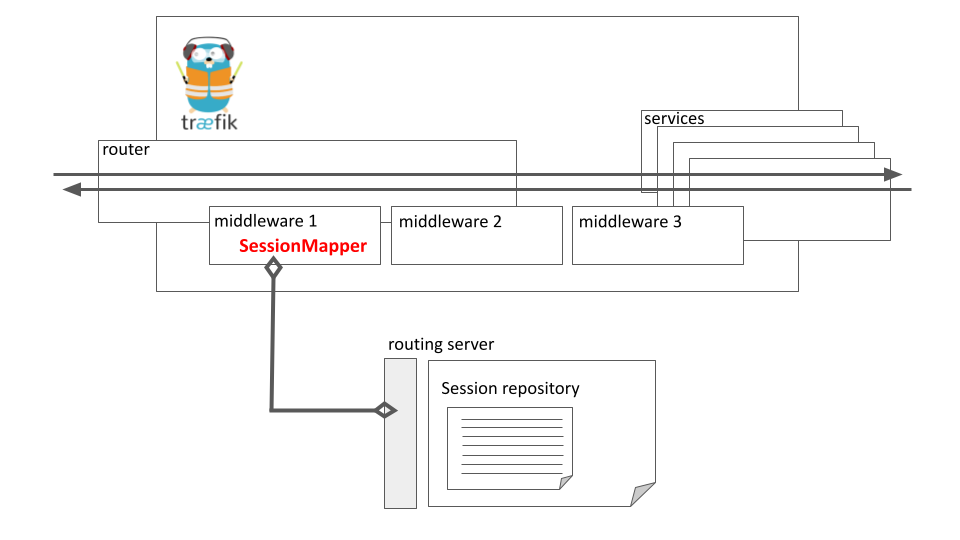
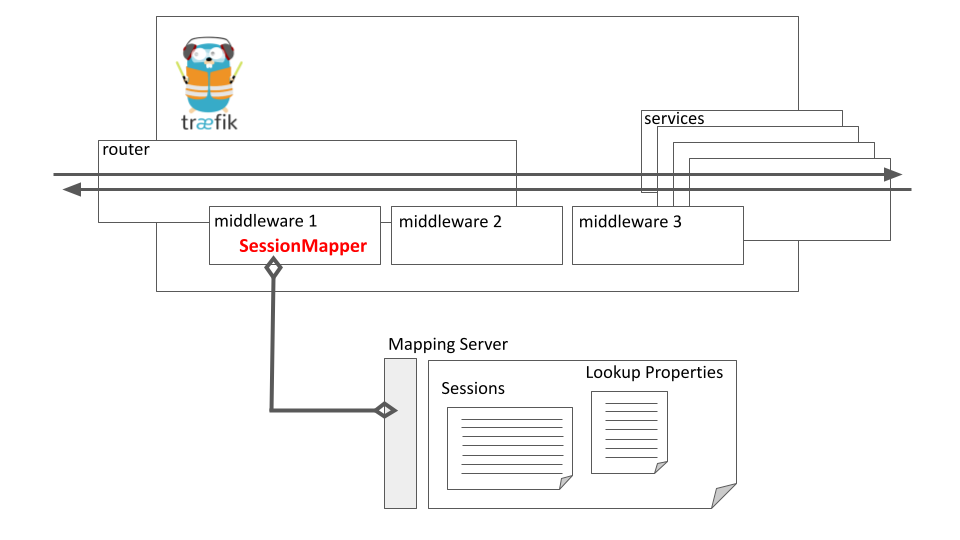
Improve documentation (#5)

diff --git a/README.md b/README.md
@@ -1,21 +1,22 @@
-**SessionMapper** is a Traefik plugin. It provides an advanced middleware to
-easily map sessions with users, groups or any properties. It enables A/B
-testing, canary deployments, security, data collection and more...
+# SessionMapper ![GitHub branch checks state](https://img.shields.io/github/checks-status/blaqkube/sessionmapper/main?color=deeppink)
 
-![GitHub branch checks state](https://img.shields.io/github/checks-status/blaqkube/sessionmapper/main?color=deeppink)
-![GitHub](https://img.shields.io/github/license/blaqkube/sessionmapper?color=lime)
-![GitHub go.mod Go version](https://img.shields.io/github/go-mod/go-version/blaqkube/sessionmapper/main?color=blue&label=Go)
-![GitHub release (latest by date)](https://img.shields.io/github/v/release/blaqkube/sessionmapper?color=black)
+**SessionMapper** adds properties to your requests based on custom logic.
+To perform its task, it connects to a Mapping Server that matches sessions to
+users, groups, roles, experiments, preferences, tracing properties or whatever
+is needed to provide advanced server-side routing capabilities.
 
 ## Overview
 
 The SessionMapper middleware for Traefik queries an API and set additional
 headers before it runs upstream requests. The middleware can be used in front
-of others. It allows advanced behaviors like setting a headers for a session, a
-user, a group of users and an experiment. Applications are endless... The
+of others. It allows advanced behaviors and applications are limitless... The
 principle is shown below:
 
 ![overview](./img/architecture.png)
+
+SessionMapper can easily be used and adapted for A/B testing, canary
+deployment, role-based security, advanced tracing, test collection,
+personalization...
 
 ## Configuration
 
